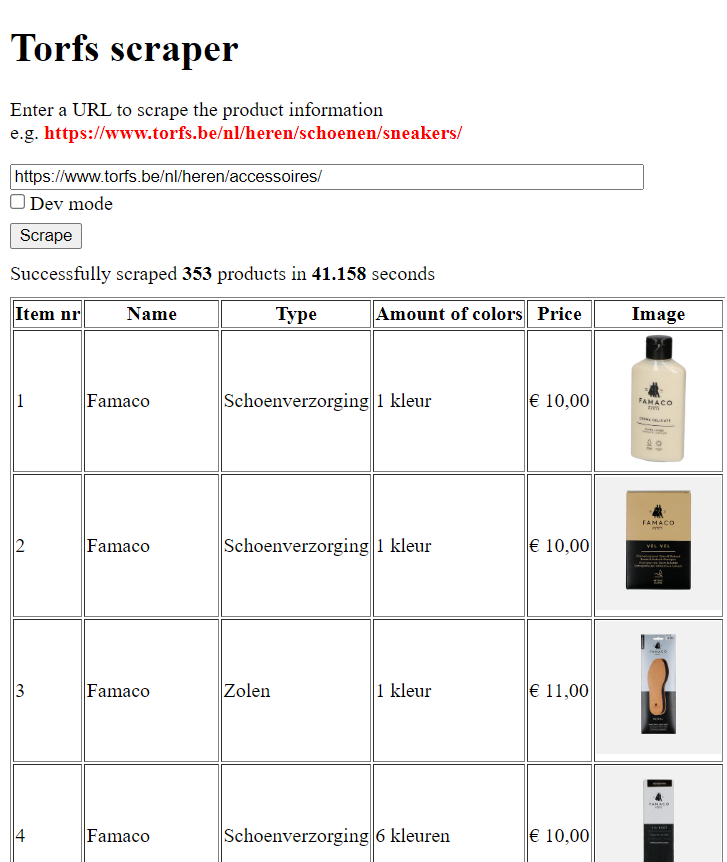
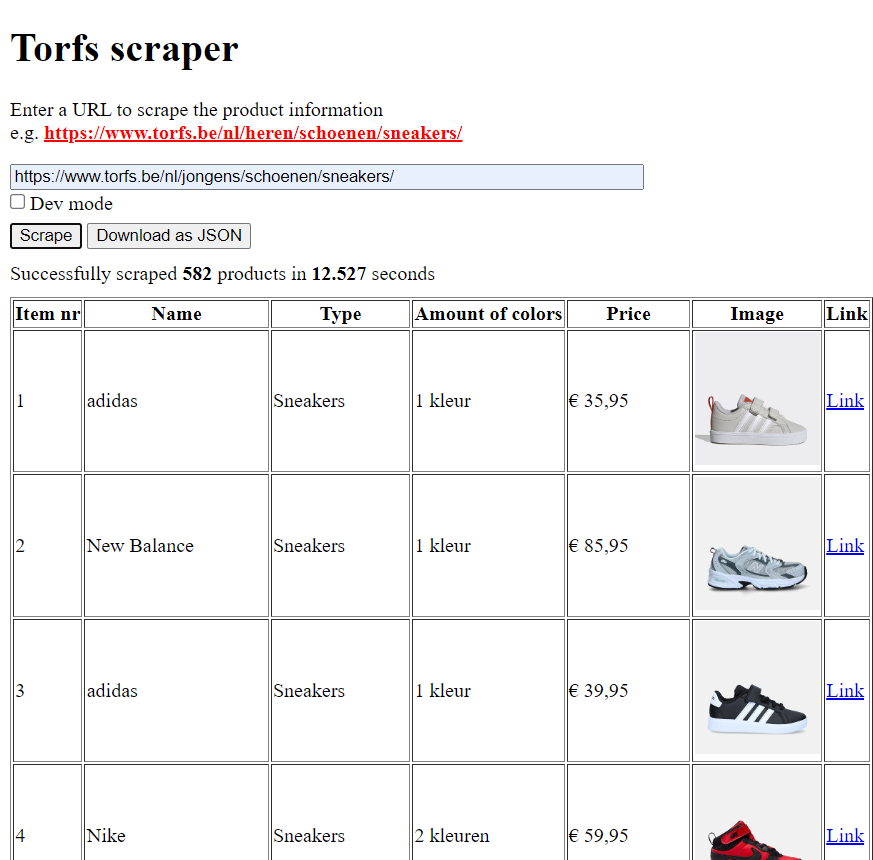
add JSON download option

Changed region(s): [[0.0, 0.1209, 1.0, 1.0], [0.0, 0.0302, 0.3329, 0.0907], [0.7263, 0.1814, 0.7565, 0.2116]]

diff --git a/script.js b/script.js
@@ -7,11 +7,14 @@ const scrapeContainer = document.getElementById('scrapeContainer');
 const urlInput = document.getElementById('url');
 const maxPagesInput = document.getElementById('maxPages');
 const messageBox = document.getElementById('messageBox');
+const downloadBtn = document.getElementById('downloadBtn');
+let items = [];
 
 submitBtn.addEventListener('click', async () => {
   event.preventDefault();
   scrapeContainer.innerHTML = '';
   messageBox.innerHTML = '';
+  downloadBtn.style.visibility = 'hidden';
   const url = urlInput.value;
   const devMode = devModeCheckbox.checked;
   const maxPages = maxPagesInput.value - 1;
@@ -29,12 +32,28 @@ submitBtn.addEventListener('click', async () => {
     messageBox.innerHTML = `Scraping page... please hold <i>(${elapsedTime} seconds elapsed)</i>`;
   }, 100);
   
-  const items = await fetchData(api, url, devMode, maxPages);
+  items = await fetchData(api, url, devMode, maxPages);
   clearInterval(timerInterval);
   const endTime = performance.now();
   const totalTimeTaken = ((endTime - startTime) / 1000).toFixed(3);
   messageBox.innerHTML = `Successfully scraped <b>${items.length}</b> products in <b>${totalTimeTaken}</b> seconds`;
   createTable(items);
+  downloadBtn.style.visibility = 'visible';
+});
+
+downloadBtn.addEventListener('click', () => {
+  const dataStr = JSON.stringify(items, null, 2); // Convert the items to a pretty-printed JSON string
+  const blob = new Blob([dataStr], { type: 'application/json' }); // Create a blob for the JSON data
+  const url = URL.createObjectURL(blob); // Create a URL for the blob
+  const a = document.createElement('a'); // Create a temporary link element
+  a.href = url;
+  a.download = 'scraped-items.json'; // Name of the downloaded file
+  document.body.appendChild(a); // Append the link to the DOM
+  a.click(); // Programmatically click the link to trigger download
+  document.body.removeChild(a); // Remove the link from the DOM
+  URL.revokeObjectURL(url); // Revoke the URL after download
+  /* source:
+  https://chatgpt.com/share/6718fef5-8b2c-8009-ad24-afc78a75db24 */
 });
 
 devModeCheckbox.addEventListener('change', () => {

diff --git a/index.html b/index.html
@@ -16,6 +16,7 @@
         <input type="checkbox" id="devMode" style="margin-bottom: 10px; margin-left: auto">Dev mode
         <input type="number" id="maxPages" placeholder="Max pages" min="1" style="visibility: hidden; width: 80px;"><br>
         <button type="submit" id="submitBtn">Scrape</button>
+        <button type="button" id="downloadBtn" style="visibility: hidden;">Download as JSON</button>
     </form>
     <p id="messageBox" style="margin-top: 10px; margin-bottom: 10px;"></p>
     <div id="scrapeContainer"></div>

diff --git a/README.md b/README.md
@@ -4,13 +4,15 @@ This repository serves as a PoC of web scraping
 ## :computer: App: Torfs scraper
 This app scrapes the website of Torfs with the webscraping tool [Puppeteer](https://pptr.dev/) for items. Users can choose which category they want to scrape by filling in the appropriate URL. For testing purposes, a development mode is available. When enabled, the user can choose how many pages they want to scrape instead of everything. This speeds up the process and is useful for testing.
 <br><br>
-The app displays all items in a table containing the names, types, amount of colors, prices and images of all scraped items.
+The app displays all scraped items in a table containing the names, types, amount of colors, prices images and a link to the original item. The user can also download this data as a JSON-file.
 
 <details>
 <summary>Screenshots</summary>
 <kbd><img src="imgs/img1.png" alt="Screenshot 1" width="400"></kbd><br><br>
 Dev mode enabled<br>
-<kbd><img src="imgs/img2.png" alt="Screenshot 2" width="400"></kbd>
+<kbd><img src="imgs/img2.png" alt="Screenshot 2" width="400"></kbd><br><br>
+JSON download<br>
+<kbd><img src="imgs/img3.png" alt="Screenshot 3 JSON" width="400"></kbd>
 </details>
 
 ## :wrench: Installation
@@ -64,4 +66,5 @@ docker-compose up -d
 * https://www.scrapingbee.com/blog/web-scraping-javascript/
 * https://pptr.dev/
 * https://pptr.dev/guides/docker/
-* [ChatGPT conversation](https://chatgpt.com/share/6718de31-c400-8009-8553-fe0fa345833c)
+* [ChatGPT conversation 1](https://chatgpt.com/share/6718de31-c400-8009-8553-fe0fa345833c)
+* [ChatGPT conversation 2](https://chatgpt.com/share/6718fef5-8b2c-8009-ad24-afc78a75db24)
